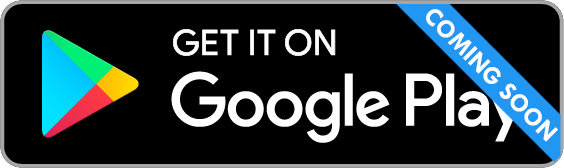
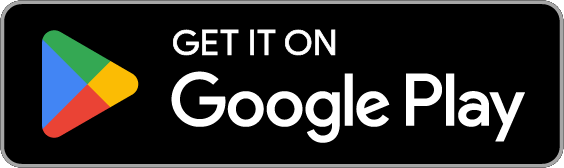
update style analytics

diff --git a/components/HeroSection.jsx b/components/HeroSection.jsx
@@ -11,37 +11,12 @@ function HeroSection({ downloadLink }) {
             <span className="pb-3 block sm:pb-5">FUT Chemistry</span>
           </h1>
           <p className="text-base text-gray-300 sm:text-xl lg:text-lg xl:text-xl">
-            Helps FUT player finds the best formation to link between FUT card. <br/>
-            Fastest algorithm with great UI/UX.
+            Best tool to maximize your team chemistry in FUT 23! We will give you the best line-up of your team with fast and easy way
           </p>
           <div className="mt-10 sm:mt-12">
             <div className="grid grid-cols-3">
-              <Link href={downloadLink}>
-                <a target="_blank" rel="noopener noreferrer">
-                  <Image
-                    src="/images/badge_appstore.png"
-                    alt="Get fut chemistry on Appstore."
-                    width={564}
-                    height={168}
-                    layout="responsive"
-                    objectFit="cover"
-                  />
-                </a>
-              </Link>
-              <Link href={''}>
-                <a target="_blank" rel="noopener noreferrer">
-                  <Image
-                      src="/images/badge_google_play.png"
-                      alt="Get fut chemistry on Google Play."
-                      width={564}
-                      height={168}
-                      layout="responsive"
-                      objectFit="cover"
-                  />
-                </a>
-              </Link>
-              <Link href={''}>
-                <a target="_blank" rel="noopener noreferrer">
+              <Link href={'https://app.futchemistry.com'}>
+                <a target="_blank" rel="noopener noreferrer" className="glow-on-hover mx-2">
                   <Image
                       src="/images/badge_pwa.png"
                       alt="Get fut chemistry on Google Play."
@@ -52,6 +27,31 @@ function HeroSection({ downloadLink }) {
                   />
                 </a>
               </Link>
+              <Link href={downloadLink}>
+                <a target="_blank" rel="noopener noreferrer" className="glow-on-hover mx-2">
+                  <Image
+                    src="/images/badge_appstore_comingsoon.png"
+                    alt="Get fut chemistry on Appstore."
+                    width={564}
+                    height={168}
+                    layout="responsive"
+                    objectFit="cover"
+                  />
+                </a>
+              </Link>
+              <Link href={''}>
+                <a target="_blank" rel="noopener noreferrer" className="glow-on-hover mx-2">
+                  <Image
+                      src="/images/badge_google_play_comingsoon.png"
+                      alt="Get fut chemistry on Google Play."
+                      width={564}
+                      height={168}
+                      layout="responsive"
+                      objectFit="cover"
+                  />
+                </a>
+              </Link>
+
             </div>
           </div>
         </div>

diff --git a/styles/globals.css b/styles/globals.css
@@ -5,3 +5,67 @@
 .z-1 {
     z-index: 1;
 }
+
+.glow-on-hover {
+    position: relative;
+    z-index: 0;
+}
+
+.glow-on-hover:before {
+    content: '';
+    background: linear-gradient(
+            45deg,
+            #ff0000,
+            #ff7300,
+            #fffb00,
+            #48ff00,
+            #00ffd5,
+            #002bff,
+            #7a00ff,
+            #ff00c8,
+            #ff0000
+    );
+    position: absolute;
+    top: -2px;
+    left: -2px;
+    background-size: 400%;
+    z-index: -1;
+    filter: blur(5px);
+    width: calc(100% + 4px);
+    height: calc(100% + 4px);
+    animation: glowing 20s linear infinite;
+    opacity: 0;
+    transition: opacity 0.3s ease-in-out;
+    border-radius: 10px;
+}
+
+.glow-on-hover:active:after {
+    background: transparent;
+}
+
+.glow-on-hover:hover:before {
+    opacity: 1;
+}
+
+.glow-on-hover:after {
+    z-index: -1;
+    content: '';
+    position: absolute;
+    width: 100%;
+    height: 100%;
+    left: 0;
+    top: 0;
+    border-radius: 10px;
+}
+
+@keyframes glowing {
+    0% {
+        background-position: 0 0;
+    }
+    50% {
+        background-position: 400% 0;
+    }
+    100% {
+        background-position: 0 0;
+    }
+}

diff --git a/pages/_app.js b/pages/_app.js
@@ -1,7 +1,20 @@
 import '../styles/globals.css'
+import Script from "next/script";
 
-function MyApp({ Component, pageProps }) {
-  return <Component {...pageProps} />
+function MyApp({Component, pageProps}) {
+	return <>
+		<Script strategy="afterInteractive" src="https://www.googletagmanager.com/gtag/js?id=G-WEHGX10QVT"/>
+		<Script id="google-analytics" strategy="afterInteractive">
+			{`
+			window.dataLayer = window.dataLayer || [];
+			function gtag(){dataLayer.push(arguments);}
+			gtag('js', new Date());
+
+			gtag('config', 'G-WEHGX10QVT');
+			`}
+		</Script>
+		<Component {...pageProps} />
+	</>
 }
 
 export default MyApp

diff --git a/lib/ga.js b/lib/ga.js
@@ -1,0 +1,11 @@
+// log the pageview with their URL
+export const pageview = (url) => {
+	window.gtag('config', 'G-WEHGX10QVT', {
+		page_path: url,
+	})
+}
+
+// log specific events happening.
+export const event = ({ action, params }) => {
+	window.gtag('event', action, params)
+}
